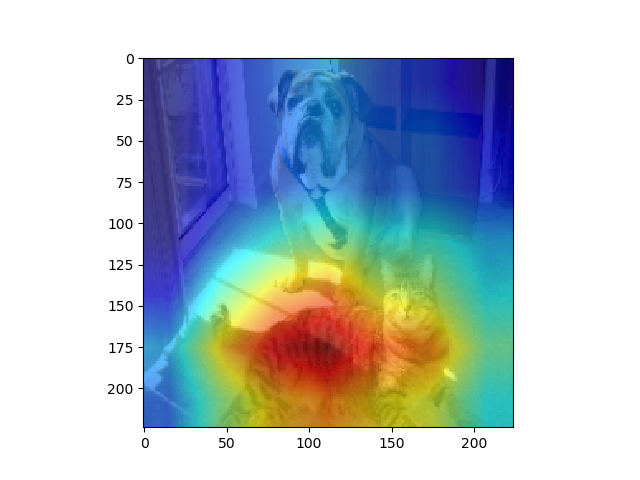
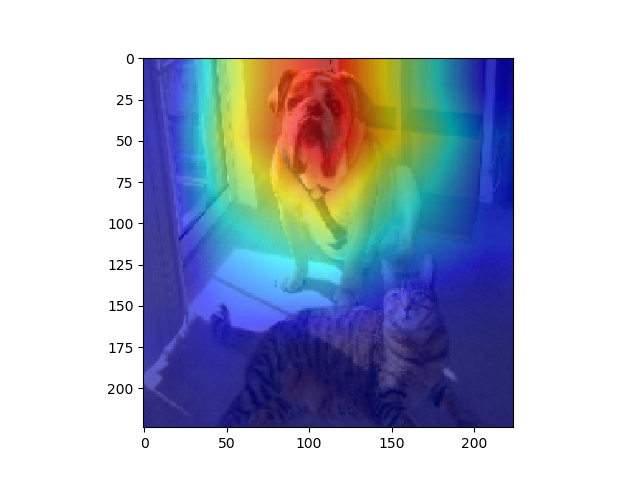
readme updated

diff --git a/example.py b/example.py
@@ -21,7 +21,7 @@ def boxer_example():
     heatmap_layer = model.layer4[2].conv2
     image = Image.open("./images/cat_dog.png")
     input_tensor = transform(image)
-    boxer_label = 282
+    boxer_label = 242
     image = grad_cam(model, input_tensor, heatmap_layer, boxer_label)
     plt.imshow(image)
     plt.savefig('./images/boxer_grad-cam')
@@ -38,7 +38,7 @@ def tiger_cat_example():
     heatmap_layer = model.layer4[2].conv2
     image = Image.open("./images/cat_dog.png")
     input_tensor = transform(image)
-    tiger_cat_label = 242
+    tiger_cat_label = 282
     image = grad_cam(model, input_tensor, heatmap_layer, tiger_cat_label)
     plt.imshow(image)
     plt.savefig('./images/tiger_cat_grad-cam')

diff --git a/README.md b/README.md
@@ -1,2 +1,28 @@
 # grad-cam-pytorch-light
-A customizable lightweight grad-cam implementation
+A customizable lightweight implementation of Grad-CAM (Gradient-weighted Class Activation Mapping) [arXiv](https://arxiv.org/abs/1610.02391). This implementation works for custom models.
+
+## Usage
+```{python}
+from grad_cam import grad_cam
+
+grad_cam(<Model>, <Image>, <Layer>, <Label>)
+```
+
+`<Model>`: A pytorch model.
+`<Image>`: Transformed image for caculating Grad-CAM, a three dimensional tensor.
+`<Layer>`: The layer to back-prop to for calculating gradients.
+`<Label>`: The label to start back-prop.
+
+## Example
+
+See `example.py` for examples.
+
+## Sample Images
+
+'Boxer' label and 'Tiger Cat' label for the same image:
+
+![Boxer](./images/boxer_grad-cam.png) ![Tiger Cat](./images/tiger_cat_grad-cam.png) 
+
+'African elephant, Loxodonta africana' label for an image containing an elephant:
+
+![Elephant](./images/elephant_grad-cam.png)
